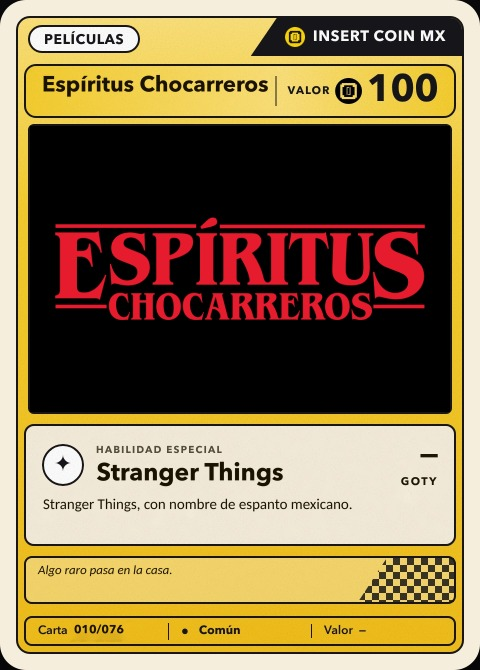
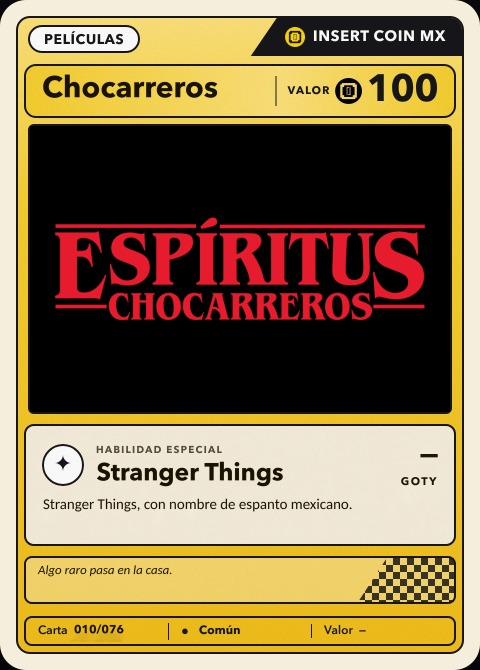
Cartas: nombres Chocarreros y Guardianes
Claude-Session: https://claude.ai/code/session_01WEHJpKQnAMdLweLs7qNUQD

Changed region(s): [[0.0938, 0.0896, 0.5625, 0.1493]]

diff --git a/index.html b/index.html
@@ -1176,7 +1176,7 @@ const DESIGNS=[
 {id:'bort',ex:'er',n:"Bort",cat:'CARICATURAS',r:'comun',no:7},
 {id:'bustfiction',ex:'er',n:"Bust Fiction",cat:'PELÍCULAS',r:'comun',no:8,f:5},
 {id:'challenger',ex:'er',n:"Challenger",cat:'GAMER',r:'comun',no:9,f:6},
-{id:'chocarreros',ex:'er',n:"Espíritus Chocarreros",cat:'PELÍCULAS',r:'comun',no:10},
+{id:'chocarreros',ex:'er',n:"Chocarreros",cat:'PELÍCULAS',r:'comun',no:10},
 {id:'choochoo',ex:'er',n:"Choo Choo",cat:'CARICATURAS',r:'comun',no:11},
 {id:'chorriuken',ex:'er',n:"Chorriuken",cat:'GAMER',r:'comun',no:12},
 {id:'collector',ex:'er',n:"Collector",cat:'GAMER',r:'comun',no:13,f:7},
@@ -1193,7 +1193,7 @@ const DESIGNS=[
 {id:'gamepop',ex:'br',n:"Game Pop",cat:'GAMER',r:'holo',no:22,f:13},
 {id:'gatosamurai',ex:'er',n:"Gato Samurái",cat:'ANIME',r:'comun',no:23,f:14},
 {id:'god',ex:'er',n:"God",cat:'PELÍCULAS',r:'comun',no:24},
-{id:'guardianes',ex:'er',n:"Guardianes del Universo",cat:'ANIME',r:'comun',no:25},
+{id:'guardianes',ex:'er',n:"Guardianes",cat:'ANIME',r:'comun',no:25},
 {id:'gunsncontrols',ex:'er',n:"Guns N' Controls",cat:'GAMER',r:'comun',no:26,f:15},
 {id:'humangamer',ex:'er',n:"Human Gamer",cat:'GAMER',r:'comun',no:27,f:16},
 {id:'hyrule',ex:'er',n:"Hyrule",cat:'GAMER',r:'comun',no:28,f:17},
